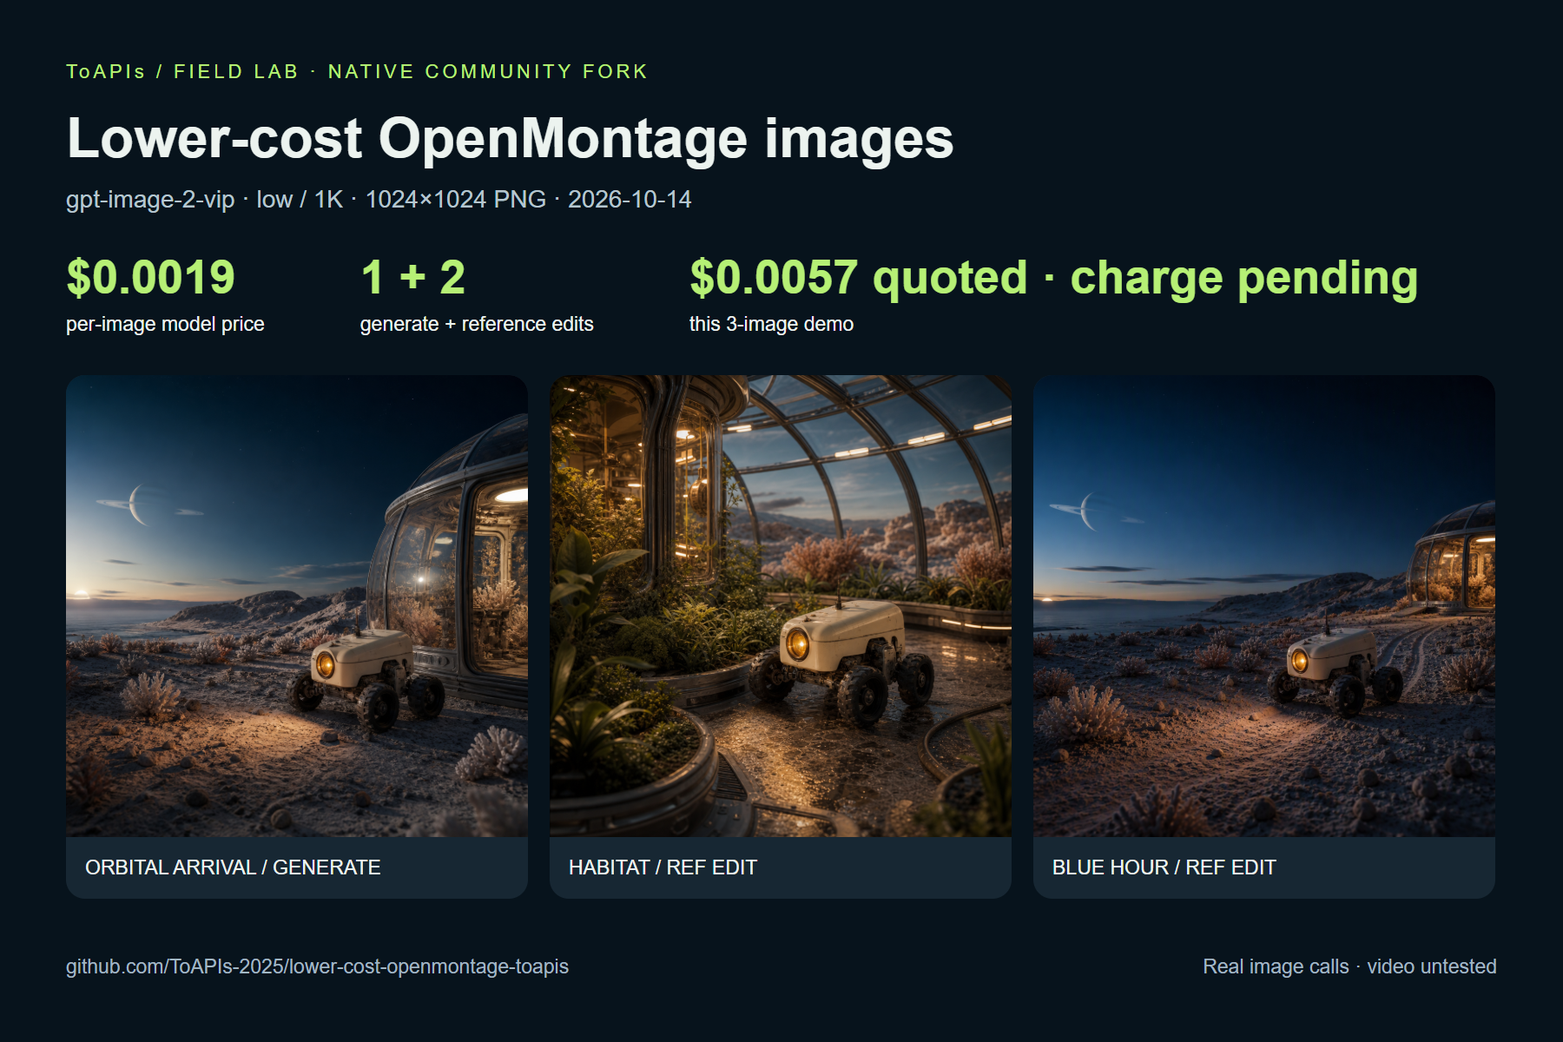
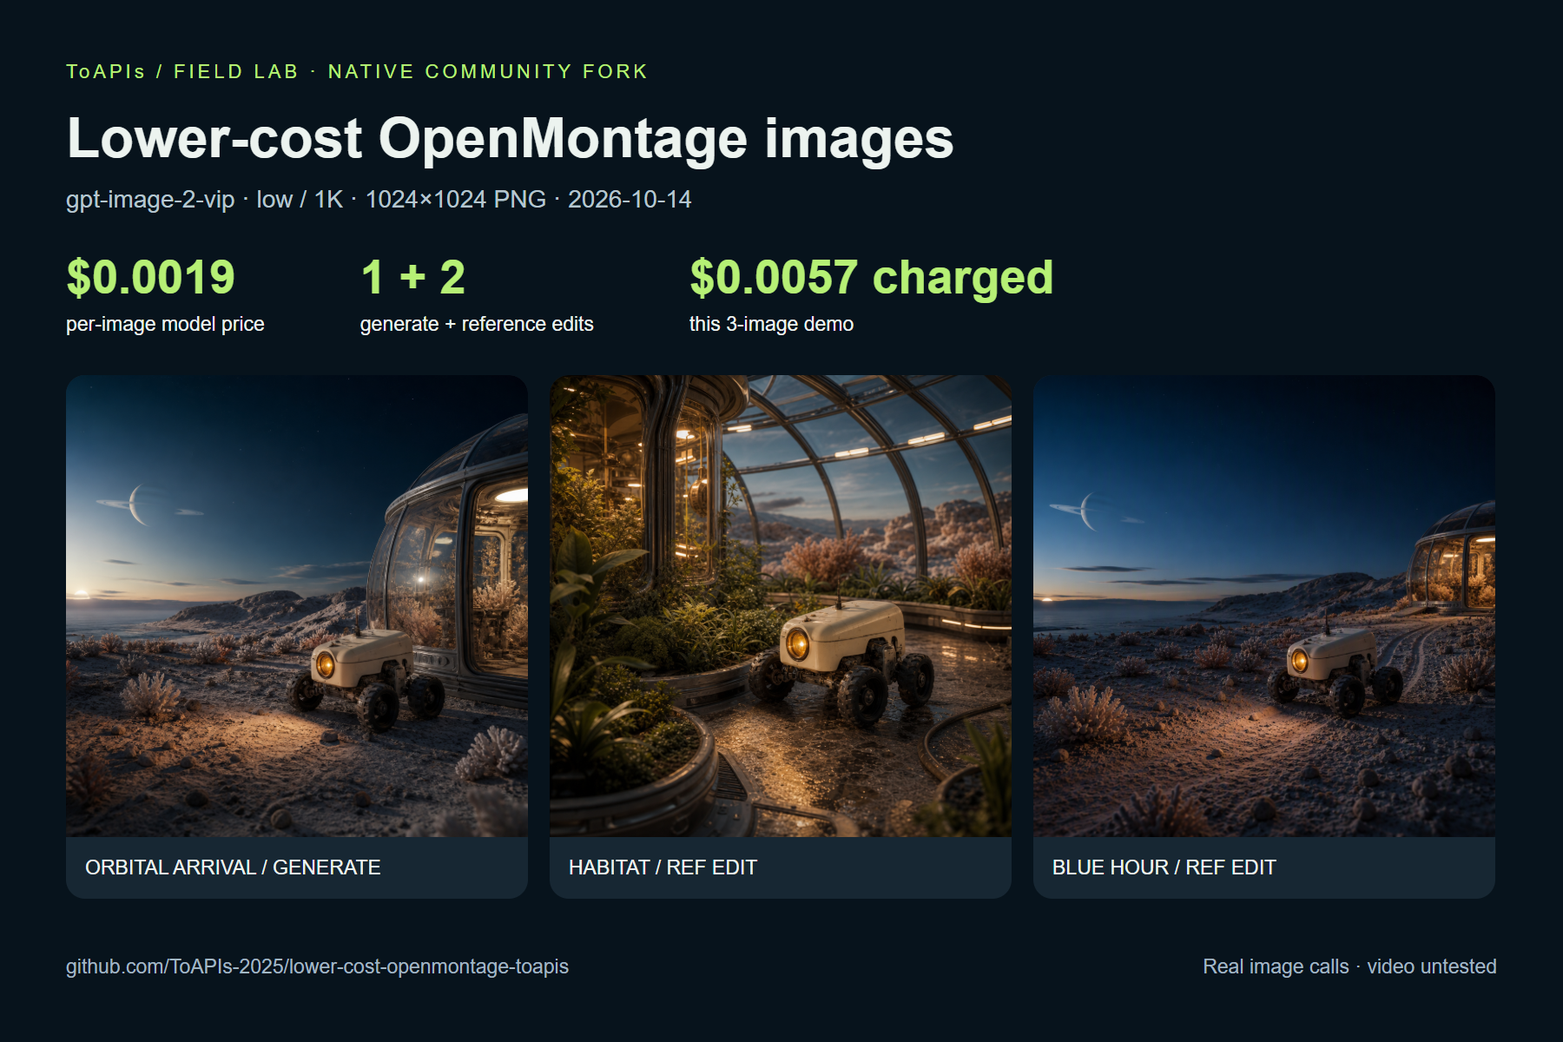
feat: add bilingual lower-cost ToAPIs image tutorial and reproducible demos

Changed region(s): [[0.56, 0.2467, 0.9022, 0.3083]]

diff --git a/README.md b/README.md
@@ -2,7 +2,7 @@
 
 [简体中文](README_zh-CN.md) · [Model pricing & API access](https://go2v.toapis.com/om14ge) · [Original OpenMontage](https://github.com/calesthio/OpenMontage)
 
-**$0.0019/image** for ToAPIs `gpt-image-2-vip`, `low / 1K / n=1`. Generate an original orbital rover scene, then two reference-guided storyboard variations through a native OpenMontage `BaseTool`. 3 calls quoted at **$0.0057 total**; API billing is null, settled charges pending confirmation.
+**$0.0019/image** for ToAPIs `gpt-image-2-vip`, `low / 1K / n=1`. Generate an original orbital rover scene, then two reference-guided storyboard variations through a native OpenMontage `BaseTool`. 3 image-2(vip) images: **$0.0057 actually charged** (1.14 credits).
 
 ## Demo
 
@@ -18,7 +18,7 @@ Original prompts: [cases.json](examples/toapis/cases.json). Actual calls dated 2
 
 ## Seven model options: real examples, prices and charges
 
-All 11 calls quoted at **$0.195914 total**. API billing is null; settled charges await backend confirmation.
+All 11 calls actually charged **$0.195912**.
 
 ![Model comparison A](assets/comparison-a-en.png)
 
@@ -26,13 +26,13 @@ All 11 calls quoted at **$0.195914 total**. API billing is null; settled charges
 
 | Model / API route | Tier | Quote / image | Actual charge / sample | Actual px | Client seconds | Output |
 |---|---|---|---|---|---|---|
-| [`gpt-image-2-vip`](https://go2v.toapis.com/om14ge) | low / requested 1K | $0.0019 | 待后台确认 / pending | 1024×1024 / PNG | not recorded / recovered | [PNG](examples/toapis/results/orbital-arrival/result.png) · [record](examples/toapis/results/orbital-arrival/evidence.json) |
-| [`gpt-image-2`](https://toapis.com/en/model-guide/gpt-image-2?utm_campaign=om14i2) | — / requested 1K | $0.015 | 待后台确认 / pending | 1280×1280 / PNG | 115.69 | [PNG](examples/toapis/resolution-probes/gpt-image-2/result.png) · [record](examples/toapis/resolution-probes/gpt-image-2/evidence.json) |
-| [`gpt-image-2.5-flare`](https://im25.toapis.com/om14f) | high / requested 1K | $0.0225 | 待后台确认 / pending | 1024×1024 / PNG | 60.2 | [PNG](examples/toapis/comparison/gpt-image-2.5-flare/result.png) · [record](examples/toapis/comparison/gpt-image-2.5-flare/evidence.json) |
-| [`gemini-nano-banana-2.1`](https://toapis.com/en/model-guide/gemini-nano-banana-2-1?utm_campaign=om14n1) | — / requested 1K | $0.015 | 待后台确认 / pending | 1024×1024 / JPEG → PNG | 32.38 | [PNG](examples/toapis/comparison/gemini-nano-banana-2.1/result.png) · [Original JPEG](examples/toapis/comparison/gemini-nano-banana-2.1/result-original.jpg) · [record](examples/toapis/comparison/gemini-nano-banana-2.1/evidence.json) |
-| [`doubao-seedream-5-0-pro`](https://toapis.com/en/model-guide/doubao-seedream-5-0-pro?utm_campaign=om14s5) | medium (quote) / requested 1K | $0.042857 | 待后台确认 / pending | 2048×2048 / JPEG → PNG | 86.95 | [PNG](examples/toapis/resolution-probes/doubao-seedream-5-0-pro/result.png) · [Original JPEG](examples/toapis/resolution-probes/doubao-seedream-5-0-pro/result-original.jpg) · [record](examples/toapis/resolution-probes/doubao-seedream-5-0-pro/evidence.json) |
-| [`gemini-3.1-flash-image-preview`](https://nano2.toapis.com/om14n2) | — / requested 1K | $0.025 | 待后台确认 / pending | 1024×1024 / PNG | 32.77 | [PNG](examples/toapis/comparison/gemini-3.1-flash-image-preview/result.png) · [record](examples/toapis/comparison/gemini-3.1-flash-image-preview/evidence.json) |
-| [`nano_banana`](https://x.toapis.com/om14nb) | — / requested 1K | $0.012 | 待后台确认 / pending | 1024×1024 / PNG | 14.41 | [PNG](examples/toapis/comparison/nano_banana/result.png) · [record](examples/toapis/comparison/nano_banana/evidence.json) |
+| [`gpt-image-2-vip`](https://go2v.toapis.com/om14ge) | low / requested 1K | $0.0019 | $0.0019 | 1024×1024 / PNG | not recorded / recovered | [PNG](examples/toapis/results/orbital-arrival/result.png) · [record](examples/toapis/results/orbital-arrival/evidence.json) |
+| [`gpt-image-2`](https://toapis.com/en/model-guide/gpt-image-2?utm_campaign=om14i2) | — / requested 1K | $0.015 | $0.015 | 1280×1280 / PNG | 115.69 | [PNG](examples/toapis/resolution-probes/gpt-image-2/result.png) · [record](examples/toapis/resolution-probes/gpt-image-2/evidence.json) |
+| [`gpt-image-2.5-flare`](https://im25.toapis.com/om14f) | high / requested 1K | $0.0225 | $0.0225 | 1024×1024 / PNG | 60.2 | [PNG](examples/toapis/comparison/gpt-image-2.5-flare/result.png) · [record](examples/toapis/comparison/gpt-image-2.5-flare/evidence.json) |
+| [`gemini-nano-banana-2.1`](https://toapis.com/en/model-guide/gemini-nano-banana-2-1?utm_campaign=om14n1) | — / requested 1K | $0.015 | $0.015 | 1024×1024 / JPEG → PNG | 32.38 | [PNG](examples/toapis/comparison/gemini-nano-banana-2.1/result.png) · [Original JPEG](examples/toapis/comparison/gemini-nano-banana-2.1/result-original.jpg) · [record](examples/toapis/comparison/gemini-nano-banana-2.1/evidence.json) |
+| [`doubao-seedream-5-0-pro`](https://toapis.com/en/model-guide/doubao-seedream-5-0-pro?utm_campaign=om14s5) | medium (quote) / requested 1K | $0.042857 | $0.042856 | 2048×2048 / JPEG → PNG | 86.95 | [PNG](examples/toapis/resolution-probes/doubao-seedream-5-0-pro/result.png) · [Original JPEG](examples/toapis/resolution-probes/doubao-seedream-5-0-pro/result-original.jpg) · [record](examples/toapis/resolution-probes/doubao-seedream-5-0-pro/evidence.json) |
+| [`gemini-3.1-flash-image-preview`](https://nano2.toapis.com/om14n2) | — / requested 1K | $0.025 | $0.025 | 1024×1024 / PNG | 32.77 | [PNG](examples/toapis/comparison/gemini-3.1-flash-image-preview/result.png) · [record](examples/toapis/comparison/gemini-3.1-flash-image-preview/evidence.json) |
+| [`nano_banana`](https://x.toapis.com/om14nb) | — / requested 1K | $0.012 | $0.012 | 1024×1024 / PNG | 14.41 | [PNG](examples/toapis/comparison/nano_banana/result.png) · [record](examples/toapis/comparison/nano_banana/evidence.json) |
 
 [Full comparison, resolution audit and reproduction commands](examples/toapis/MODEL_COMPARISON.md). Same prompt, different quality tiers; single examples are not a performance ranking.
 
@@ -40,7 +40,7 @@ All 11 calls quoted at **$0.195914 total**. API billing is null; settled charges
 
 | Model | Tier | Current price | This demo |
 |---|---|---|---|
-| `gpt-image-2-vip` | `low / 1K / n=1` | **$0.0019/image** | $0.0057 / 3 calls quoted, charge pending |
+| `gpt-image-2-vip` | `low / 1K / n=1` | **$0.0019/image** | $0.0057 / 3 images, backend-confirmed charge |
 
 The VIP storyboard tier below and the tested alternatives in the comparison are priced here. Quote checked 2026-10-14 through the authenticated pricing API. 1 credit = $0.005. Original API `billing: null` is preserved in the sanitized evidence; settled charges come from the account owner's backend confirmation when available. [Price snapshot](examples/toapis/pricing.json).
 
@@ -82,7 +82,7 @@ For `image_selector`, require `preferred_tool="toapis_image"`, `hosting_provider
 - Bearer auth to /v1; authenticated pricing lookup; ratio/resolution mapping; local reference upload; one generation submission; task polling; PNG download and saving.
 - Durable task receipts resume an existing task, and block another POST after an ambiguous submission. Change run_id explicitly to request a new generation.
 - Fixed a real CDN download failure: Python's default User-Agent returned Cloudflare 1010/403. Result downloads use an accepted User-Agent and carry no API key. The first task was recovered without resubmission.
-- Ten offline native tests passed; eleven real `ToolRegistry` + `ToAPIsImage.execute` calls succeeded. Masks, transparency, multiple outputs, non-VIP reference edits and untested tiers fail before submission.
+- Ten offline native tests passed; the VIP storyboard calls used `ToolRegistry` + `ToAPIsImage.execute`. Additional model cases are documented below. Masks, transparency, multiple outputs, non-VIP reference edits and untested tiers fail before submission.
 
 Video, audio, Backlot UI, the complete agent production pipeline and visual continuity are not validated by these image tests. Reference edits can change details; inspect the actual images.
 
@@ -90,4 +90,4 @@ Video, audio, Backlot UI, the complete agent production pipeline and visual cont
 
 Community fork of [calesthio/OpenMontage](https://github.com/calesthio/OpenMontage), pinned at `e45f5b12bd46440b04f3675af9a77d0718e6a254`. Original [English README](README_UPSTREAM.md), [Chinese README](README_UPSTREAM_zh-CN.md), all source, license and sponsor links remain. The project remains [AGPL-3.0](LICENSE); the reused standalone adapter has its [MIT notice](tools/TOAPIS_ADAPTER_LICENSE). No upstream partnership or endorsement is claimed.
 
-Original JPEGs are retained; PNG convenience copies are serialized locally. The explicit resolution probes still returned 1280×1280 for standard GPT and 2048×2048 for Seedream. Requested 1K does not imply a 1024px result.
+Original JPEGs are retained; PNGs are serialized locally without another API call. Actual pixels and request tiers are recorded separately. Backend durations come from the owner screenshot; client durations remain separate in the task records.

diff --git a/README_zh-CN.md b/README_zh-CN.md
@@ -2,7 +2,7 @@
 
 [English](README.md) · [模型价格与 API 入口](https://go2v.toapis.com/om14gc) · [OpenMontage 上游](https://github.com/calesthio/OpenMontage)
 
-**$0.0019/张**，ToAPIs `gpt-image-2-vip | low/1K`。原创月球车场景 → 温室内景 → 蓝调离场，通过原生 OpenMontage `BaseTool` 完成文生图与参考改图。3 次调用报价合计 **$0.0057**；API billing 为空，后台实扣待确认。
+**$0.0019/张**，ToAPIs `gpt-image-2-vip | low/1K`。原创月球车场景 → 温室内景 → 蓝调离场，通过原生 OpenMontage `BaseTool` 完成文生图与参考改图。3张image-2(vip)生图实扣 **$0.0057**（1.14 积分）。
 
 ## 演示
 
@@ -18,7 +18,7 @@
 
 ## 七个模型选项的案例、价格与消费对比
 
-本次全部 11 项调用报价合计 **$0.195914**，API billing=null，实际结算待后台确认。
+本次全部 11 项调用实扣 **$0.195912**。
 
 ![Model comparison A](assets/comparison-a-cn.png)
 
@@ -26,13 +26,13 @@
 
 | Model / API route | Tier | Quote / image | Actual charge / sample | Actual px | Client seconds | Output |
 |---|---|---|---|---|---|---|
-| [`gpt-image-2-vip`](https://go2v.toapis.com/om14ge) | low / requested 1K | $0.0019 | 待后台确认 / pending | 1024×1024 / PNG | not recorded / recovered | [PNG](examples/toapis/results/orbital-arrival/result.png) · [record](examples/toapis/results/orbital-arrival/evidence.json) |
-| [`gpt-image-2`](https://toapis.com/en/model-guide/gpt-image-2?utm_campaign=om14i2) | — / requested 1K | $0.015 | 待后台确认 / pending | 1280×1280 / PNG | 115.69 | [PNG](examples/toapis/resolution-probes/gpt-image-2/result.png) · [record](examples/toapis/resolution-probes/gpt-image-2/evidence.json) |
-| [`gpt-image-2.5-flare`](https://im25.toapis.com/om14f) | high / requested 1K | $0.0225 | 待后台确认 / pending | 1024×1024 / PNG | 60.2 | [PNG](examples/toapis/comparison/gpt-image-2.5-flare/result.png) · [record](examples/toapis/comparison/gpt-image-2.5-flare/evidence.json) |
-| [`gemini-nano-banana-2.1`](https://toapis.com/en/model-guide/gemini-nano-banana-2-1?utm_campaign=om14n1) | — / requested 1K | $0.015 | 待后台确认 / pending | 1024×1024 / JPEG → PNG | 32.38 | [PNG](examples/toapis/comparison/gemini-nano-banana-2.1/result.png) · [Original JPEG](examples/toapis/comparison/gemini-nano-banana-2.1/result-original.jpg) · [record](examples/toapis/comparison/gemini-nano-banana-2.1/evidence.json) |
-| [`doubao-seedream-5-0-pro`](https://toapis.com/en/model-guide/doubao-seedream-5-0-pro?utm_campaign=om14s5) | medium (quote) / requested 1K | $0.042857 | 待后台确认 / pending | 2048×2048 / JPEG → PNG | 86.95 | [PNG](examples/toapis/resolution-probes/doubao-seedream-5-0-pro/result.png) · [Original JPEG](examples/toapis/resolution-probes/doubao-seedream-5-0-pro/result-original.jpg) · [record](examples/toapis/resolution-probes/doubao-seedream-5-0-pro/evidence.json) |
-| [`gemini-3.1-flash-image-preview`](https://nano2.toapis.com/om14n2) | — / requested 1K | $0.025 | 待后台确认 / pending | 1024×1024 / PNG | 32.77 | [PNG](examples/toapis/comparison/gemini-3.1-flash-image-preview/result.png) · [record](examples/toapis/comparison/gemini-3.1-flash-image-preview/evidence.json) |
-| [`nano_banana`](https://x.toapis.com/om14nb) | — / requested 1K | $0.012 | 待后台确认 / pending | 1024×1024 / PNG | 14.41 | [PNG](examples/toapis/comparison/nano_banana/result.png) · [record](examples/toapis/comparison/nano_banana/evidence.json) |
+| [`gpt-image-2-vip`](https://go2v.toapis.com/om14ge) | low / requested 1K | $0.0019 | $0.0019 | 1024×1024 / PNG | not recorded / recovered | [PNG](examples/toapis/results/orbital-arrival/result.png) · [record](examples/toapis/results/orbital-arrival/evidence.json) |
+| [`gpt-image-2`](https://toapis.com/en/model-guide/gpt-image-2?utm_campaign=om14i2) | — / requested 1K | $0.015 | $0.015 | 1280×1280 / PNG | 115.69 | [PNG](examples/toapis/resolution-probes/gpt-image-2/result.png) · [record](examples/toapis/resolution-probes/gpt-image-2/evidence.json) |
+| [`gpt-image-2.5-flare`](https://im25.toapis.com/om14f) | high / requested 1K | $0.0225 | $0.0225 | 1024×1024 / PNG | 60.2 | [PNG](examples/toapis/comparison/gpt-image-2.5-flare/result.png) · [record](examples/toapis/comparison/gpt-image-2.5-flare/evidence.json) |
+| [`gemini-nano-banana-2.1`](https://toapis.com/en/model-guide/gemini-nano-banana-2-1?utm_campaign=om14n1) | — / requested 1K | $0.015 | $0.015 | 1024×1024 / JPEG → PNG | 32.38 | [PNG](examples/toapis/comparison/gemini-nano-banana-2.1/result.png) · [Original JPEG](examples/toapis/comparison/gemini-nano-banana-2.1/result-original.jpg) · [record](examples/toapis/comparison/gemini-nano-banana-2.1/evidence.json) |
+| [`doubao-seedream-5-0-pro`](https://toapis.com/en/model-guide/doubao-seedream-5-0-pro?utm_campaign=om14s5) | medium (quote) / requested 1K | $0.042857 | $0.042856 | 2048×2048 / JPEG → PNG | 86.95 | [PNG](examples/toapis/resolution-probes/doubao-seedream-5-0-pro/result.png) · [Original JPEG](examples/toapis/resolution-probes/doubao-seedream-5-0-pro/result-original.jpg) · [record](examples/toapis/resolution-probes/doubao-seedream-5-0-pro/evidence.json) |
+| [`gemini-3.1-flash-image-preview`](https://nano2.toapis.com/om14n2) | — / requested 1K | $0.025 | $0.025 | 1024×1024 / PNG | 32.77 | [PNG](examples/toapis/comparison/gemini-3.1-flash-image-preview/result.png) · [record](examples/toapis/comparison/gemini-3.1-flash-image-preview/evidence.json) |
+| [`nano_banana`](https://x.toapis.com/om14nb) | — / requested 1K | $0.012 | $0.012 | 1024×1024 / PNG | 14.41 | [PNG](examples/toapis/comparison/nano_banana/result.png) · [record](examples/toapis/comparison/nano_banana/evidence.json) |
 
 [完整对比、分辨率差异和复用命令](examples/toapis/MODEL_COMPARISON.md)。同一提示词但模型档位不同，单张样例不是严格性能排名。
 
@@ -40,7 +40,7 @@
 
 | 模型 | 参数 | 当前报价 | 本次花费 |
 |---|---|---|---|
-| `gpt-image-2-vip` | `low / 1K / n=1` | **$0.0019/张** | $0.0057 / 3 次报价，实扣待确认 |
+| `gpt-image-2-vip` | `low / 1K / n=1` | **$0.0019/张** | $0.0057 / 3 张，后台确认实扣 |
 
 报价于 2026-10-14 通过鉴权 pricing API 核对。1 积分=$0.005；脱敏记录保留 API 原始 billing=null，实际花费在后台确认后填写。[对应模型价格快照](examples/toapis/pricing.json)。
 
@@ -68,7 +68,7 @@ python -m unittest discover -s tests/tools -p test_toapis_image.py
 - 像素提示转为宽高比，独立传 resolution；最终图片尺寸以实际输出为准。
 - 任务提交前写入私有状态，有 ID 就恢复原任务；无 ID 的不确定提交停止，避免重复付费。
 - 修复实测发现的 CDN 下载 403：结果请求设置可接受的 User-Agent，不携带 API Key。第一项任务按原 ID 恢复，没有重新生成。
-- 10 项离线注册/协议/拦截测试通过，11 项真实原生 Provider 调用成功。VIP 开放 low/1K/n=1，另开放比较表中六种对应档位的文生图；遮罩、透明背景和未核实档位提前拦截。
+- 10 项离线注册/协议/拦截测试通过，原生 VIP 图片 Provider 三项调用成功；新增模型调用另见对比。VIP low/1K/n=1 及对比表中的对应档位已启用，遮罩、透明背景和未核实档位提前拦截。
 
 `image_selector` 可指定 `preferred_tool="toapis_image"`、`hosting_provider="toapis"` 和 exact model；完整自动 Agent 路由尚未验收。[详细接入说明](docs/TOAPIS.md)。
 
@@ -78,4 +78,4 @@ python -m unittest discover -s tests/tools -p test_toapis_image.py
 
 基于 [calesthio/OpenMontage](https://github.com/calesthio/OpenMontage) 固定 SHA `e45f5b12bd46440b04f3675af9a77d0718e6a254` 的社区 fork；保留完整源码、[原英文 README](README_UPSTREAM.md)、[原中文 README](README_UPSTREAM_zh-CN.md)、赞助入口和 [AGPL-3.0](LICENSE)。独立复用异步适配器另保留 [MIT 声明](tools/TOAPIS_ADAPTER_LICENSE)。未代表上游官方集成或既有合作。
 
-JPEG 原图保留；PNG 是本地另存版本，模型输出格式与本地保存格式在记录中分别标明。分辨率补测仍得到标准 GPT 1280×1280、Seedream 2048×2048，不把请求 1K 当作实际 1024px。
+原始 JPEG 保留，PNG 是本地另存版本；费用按原始 API 任务核算，不为格式转换再次调用。实际像素与请求档位分开记录，服务端耗时来自后台截图，客户端耗时另见任务记录。

diff --git a/examples/toapis/MODEL_COMPARISON.md b/examples/toapis/MODEL_COMPARISON.md
@@ -6,17 +6,17 @@ One common original prompt, text-to-image, no reference, n=1, 1:1, requested 1K.
 
 | Model / API route | Tier | Quote / image | Actual charge / sample | Actual px | Client seconds | Output |
 |---|---|---|---|---|---|---|
-| [`gpt-image-2-vip`](https://go2v.toapis.com/om14ge) | low / requested 1K | $0.0019 | 待后台确认 / pending | 1024×1024 / PNG | not recorded / recovered | [PNG](results/orbital-arrival/result.png) · [record](results/orbital-arrival/evidence.json) |
-| [`gpt-image-2`](https://toapis.com/en/model-guide/gpt-image-2?utm_campaign=om14i2) | — / requested 1K | $0.015 | 待后台确认 / pending | 1280×1280 / PNG | 115.69 | [PNG](resolution-probes/gpt-image-2/result.png) · [record](resolution-probes/gpt-image-2/evidence.json) |
-| [`gpt-image-2.5-flare`](https://im25.toapis.com/om14f) | high / requested 1K | $0.0225 | 待后台确认 / pending | 1024×1024 / PNG | 60.2 | [PNG](comparison/gpt-image-2.5-flare/result.png) · [record](comparison/gpt-image-2.5-flare/evidence.json) |
-| [`gemini-nano-banana-2.1`](https://toapis.com/en/model-guide/gemini-nano-banana-2-1?utm_campaign=om14n1) | — / requested 1K | $0.015 | 待后台确认 / pending | 1024×1024 / JPEG → PNG | 32.38 | [PNG](comparison/gemini-nano-banana-2.1/result.png) · [Original JPEG](comparison/gemini-nano-banana-2.1/result-original.jpg) · [record](comparison/gemini-nano-banana-2.1/evidence.json) |
-| [`doubao-seedream-5-0-pro`](https://toapis.com/en/model-guide/doubao-seedream-5-0-pro?utm_campaign=om14s5) | medium (quote) / requested 1K | $0.042857 | 待后台确认 / pending | 2048×2048 / JPEG → PNG | 86.95 | [PNG](resolution-probes/doubao-seedream-5-0-pro/result.png) · [Original JPEG](resolution-probes/doubao-seedream-5-0-pro/result-original.jpg) · [record](resolution-probes/doubao-seedream-5-0-pro/evidence.json) |
-| [`gemini-3.1-flash-image-preview`](https://nano2.toapis.com/om14n2) | — / requested 1K | $0.025 | 待后台确认 / pending | 1024×1024 / PNG | 32.77 | [PNG](comparison/gemini-3.1-flash-image-preview/result.png) · [record](comparison/gemini-3.1-flash-image-preview/evidence.json) |
-| [`nano_banana`](https://x.toapis.com/om14nb) | — / requested 1K | $0.012 | 待后台确认 / pending | 1024×1024 / PNG | 14.41 | [PNG](comparison/nano_banana/result.png) · [record](comparison/nano_banana/evidence.json) |
+| [`gpt-image-2-vip`](https://go2v.toapis.com/om14ge) | low / requested 1K | $0.0019 | $0.0019 | 1024×1024 / PNG | not recorded / recovered | [PNG](results/orbital-arrival/result.png) · [record](results/orbital-arrival/evidence.json) |
+| [`gpt-image-2`](https://toapis.com/en/model-guide/gpt-image-2?utm_campaign=om14i2) | — / requested 1K | $0.015 | $0.015 | 1280×1280 / PNG | 115.69 | [PNG](resolution-probes/gpt-image-2/result.png) · [record](resolution-probes/gpt-image-2/evidence.json) |
+| [`gpt-image-2.5-flare`](https://im25.toapis.com/om14f) | high / requested 1K | $0.0225 | $0.0225 | 1024×1024 / PNG | 60.2 | [PNG](comparison/gpt-image-2.5-flare/result.png) · [record](comparison/gpt-image-2.5-flare/evidence.json) |
+| [`gemini-nano-banana-2.1`](https://toapis.com/en/model-guide/gemini-nano-banana-2-1?utm_campaign=om14n1) | — / requested 1K | $0.015 | $0.015 | 1024×1024 / JPEG → PNG | 32.38 | [PNG](comparison/gemini-nano-banana-2.1/result.png) · [Original JPEG](comparison/gemini-nano-banana-2.1/result-original.jpg) · [record](comparison/gemini-nano-banana-2.1/evidence.json) |
+| [`doubao-seedream-5-0-pro`](https://toapis.com/en/model-guide/doubao-seedream-5-0-pro?utm_campaign=om14s5) | medium (quote) / requested 1K | $0.042857 | $0.042856 | 2048×2048 / JPEG → PNG | 86.95 | [PNG](resolution-probes/doubao-seedream-5-0-pro/result.png) · [Original JPEG](resolution-probes/doubao-seedream-5-0-pro/result-original.jpg) · [record](resolution-probes/doubao-seedream-5-0-pro/evidence.json) |
+| [`gemini-3.1-flash-image-preview`](https://nano2.toapis.com/om14n2) | — / requested 1K | $0.025 | $0.025 | 1024×1024 / PNG | 32.77 | [PNG](comparison/gemini-3.1-flash-image-preview/result.png) · [record](comparison/gemini-3.1-flash-image-preview/evidence.json) |
+| [`nano_banana`](https://x.toapis.com/om14nb) | — / requested 1K | $0.012 | $0.012 | 1024×1024 / PNG | 14.41 | [PNG](comparison/nano_banana/result.png) · [record](comparison/nano_banana/evidence.json) |
 
-本次全部 11 项调用报价合计 **$0.195914**，API billing=null，实际结算待后台确认。
+本次全部 11 项调用实扣 **$0.195912**。
 
-All 11 calls quoted at **$0.195914 total**. API billing is null; settled charges await backend confirmation.
+All 11 calls actually charged **$0.195912**.
 
 1 credit=$0.005. [All original records](all-runs.json) preserve billing=null even after owner charge confirmation. Price comes from the authenticated ToAPIs API snapshot on 2026-10-14; only these tested options are shown.
 

diff --git a/.agents/skills/toapis-image/SKILL.md b/.agents/skills/toapis-image/SKILL.md
@@ -7,7 +7,7 @@ For production, follow AGENT_GUIDE.md and the selected pipeline. This fork adds
 one image provider; video, voice, and the complete production pipeline were not
 validated by this tutorial. For provider smoke tests use examples/toapis/demo.py.
 
-Require exact tool `toapis_image`, provider `toapis`, model `gpt-image-2-vip`.
+Require exact tool `toapis_image`, provider `toapis`, and an explicit model ID from tools/toapis_models.py. VIP is the default.
 VIP uses low/1K/n=1. Other explicit generation-only options and their tiers are in tools/toapis_models.py; see examples/toapis/MODEL_COMPARISON.md. Estimate cost queries authenticated pricing;
 an estimate is not a settled charge. Credentials indicate configuration only.
 
